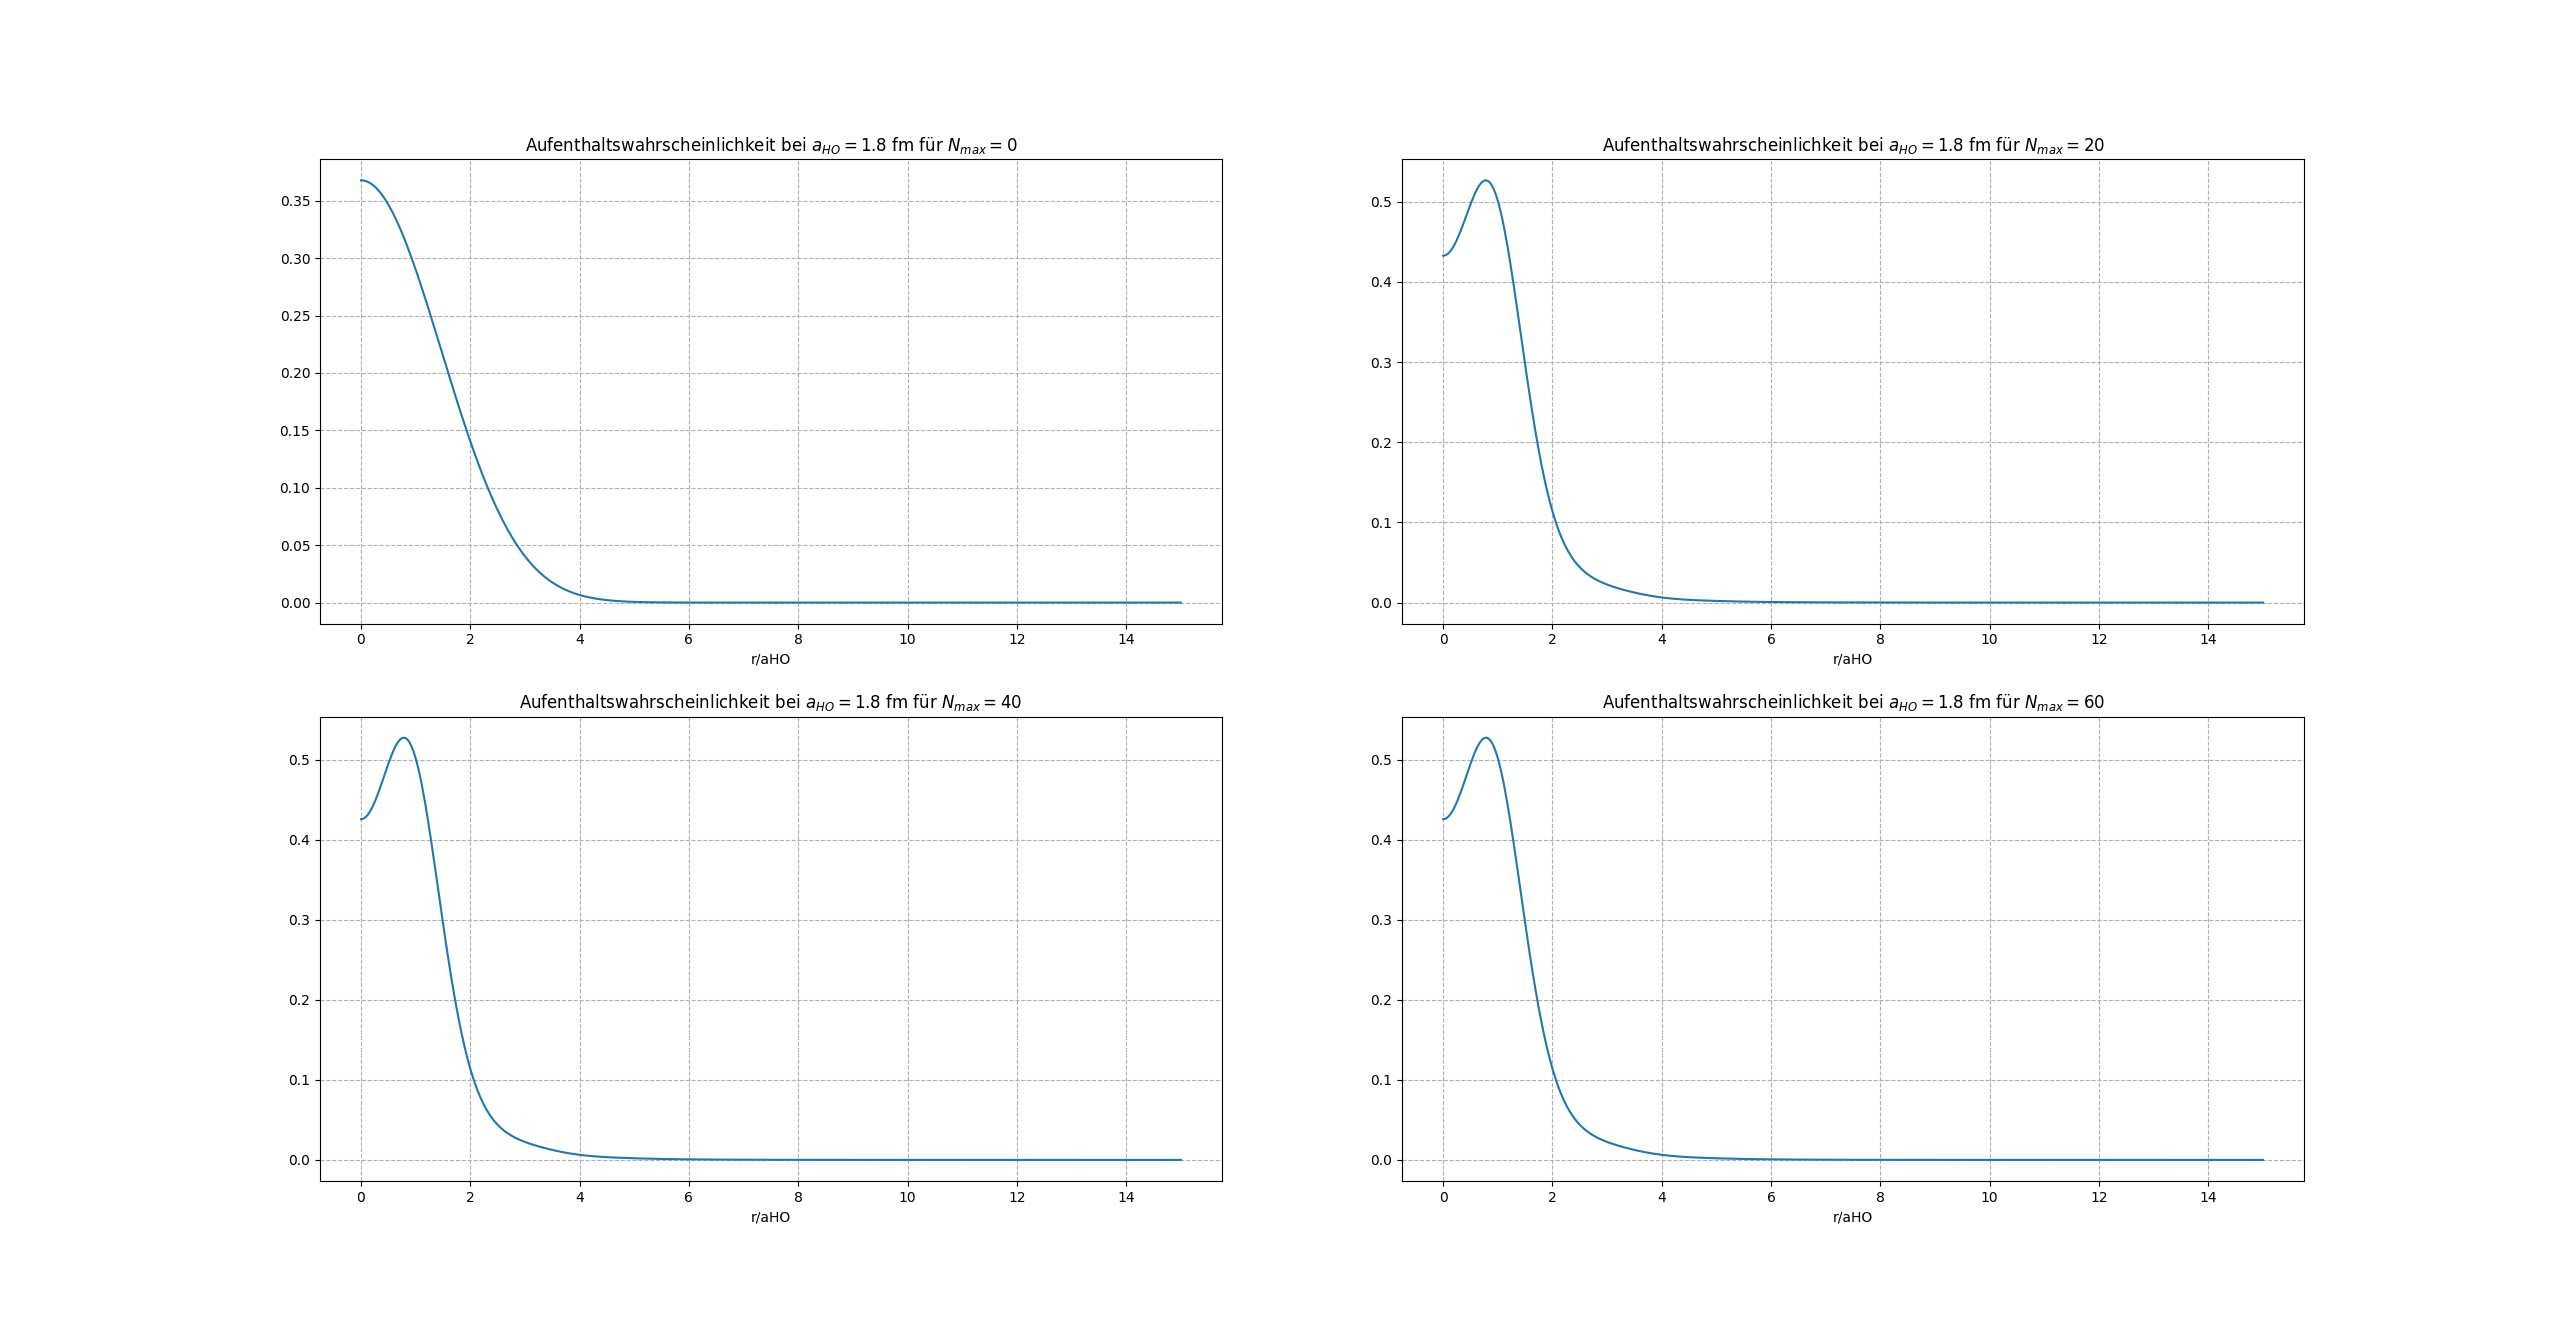
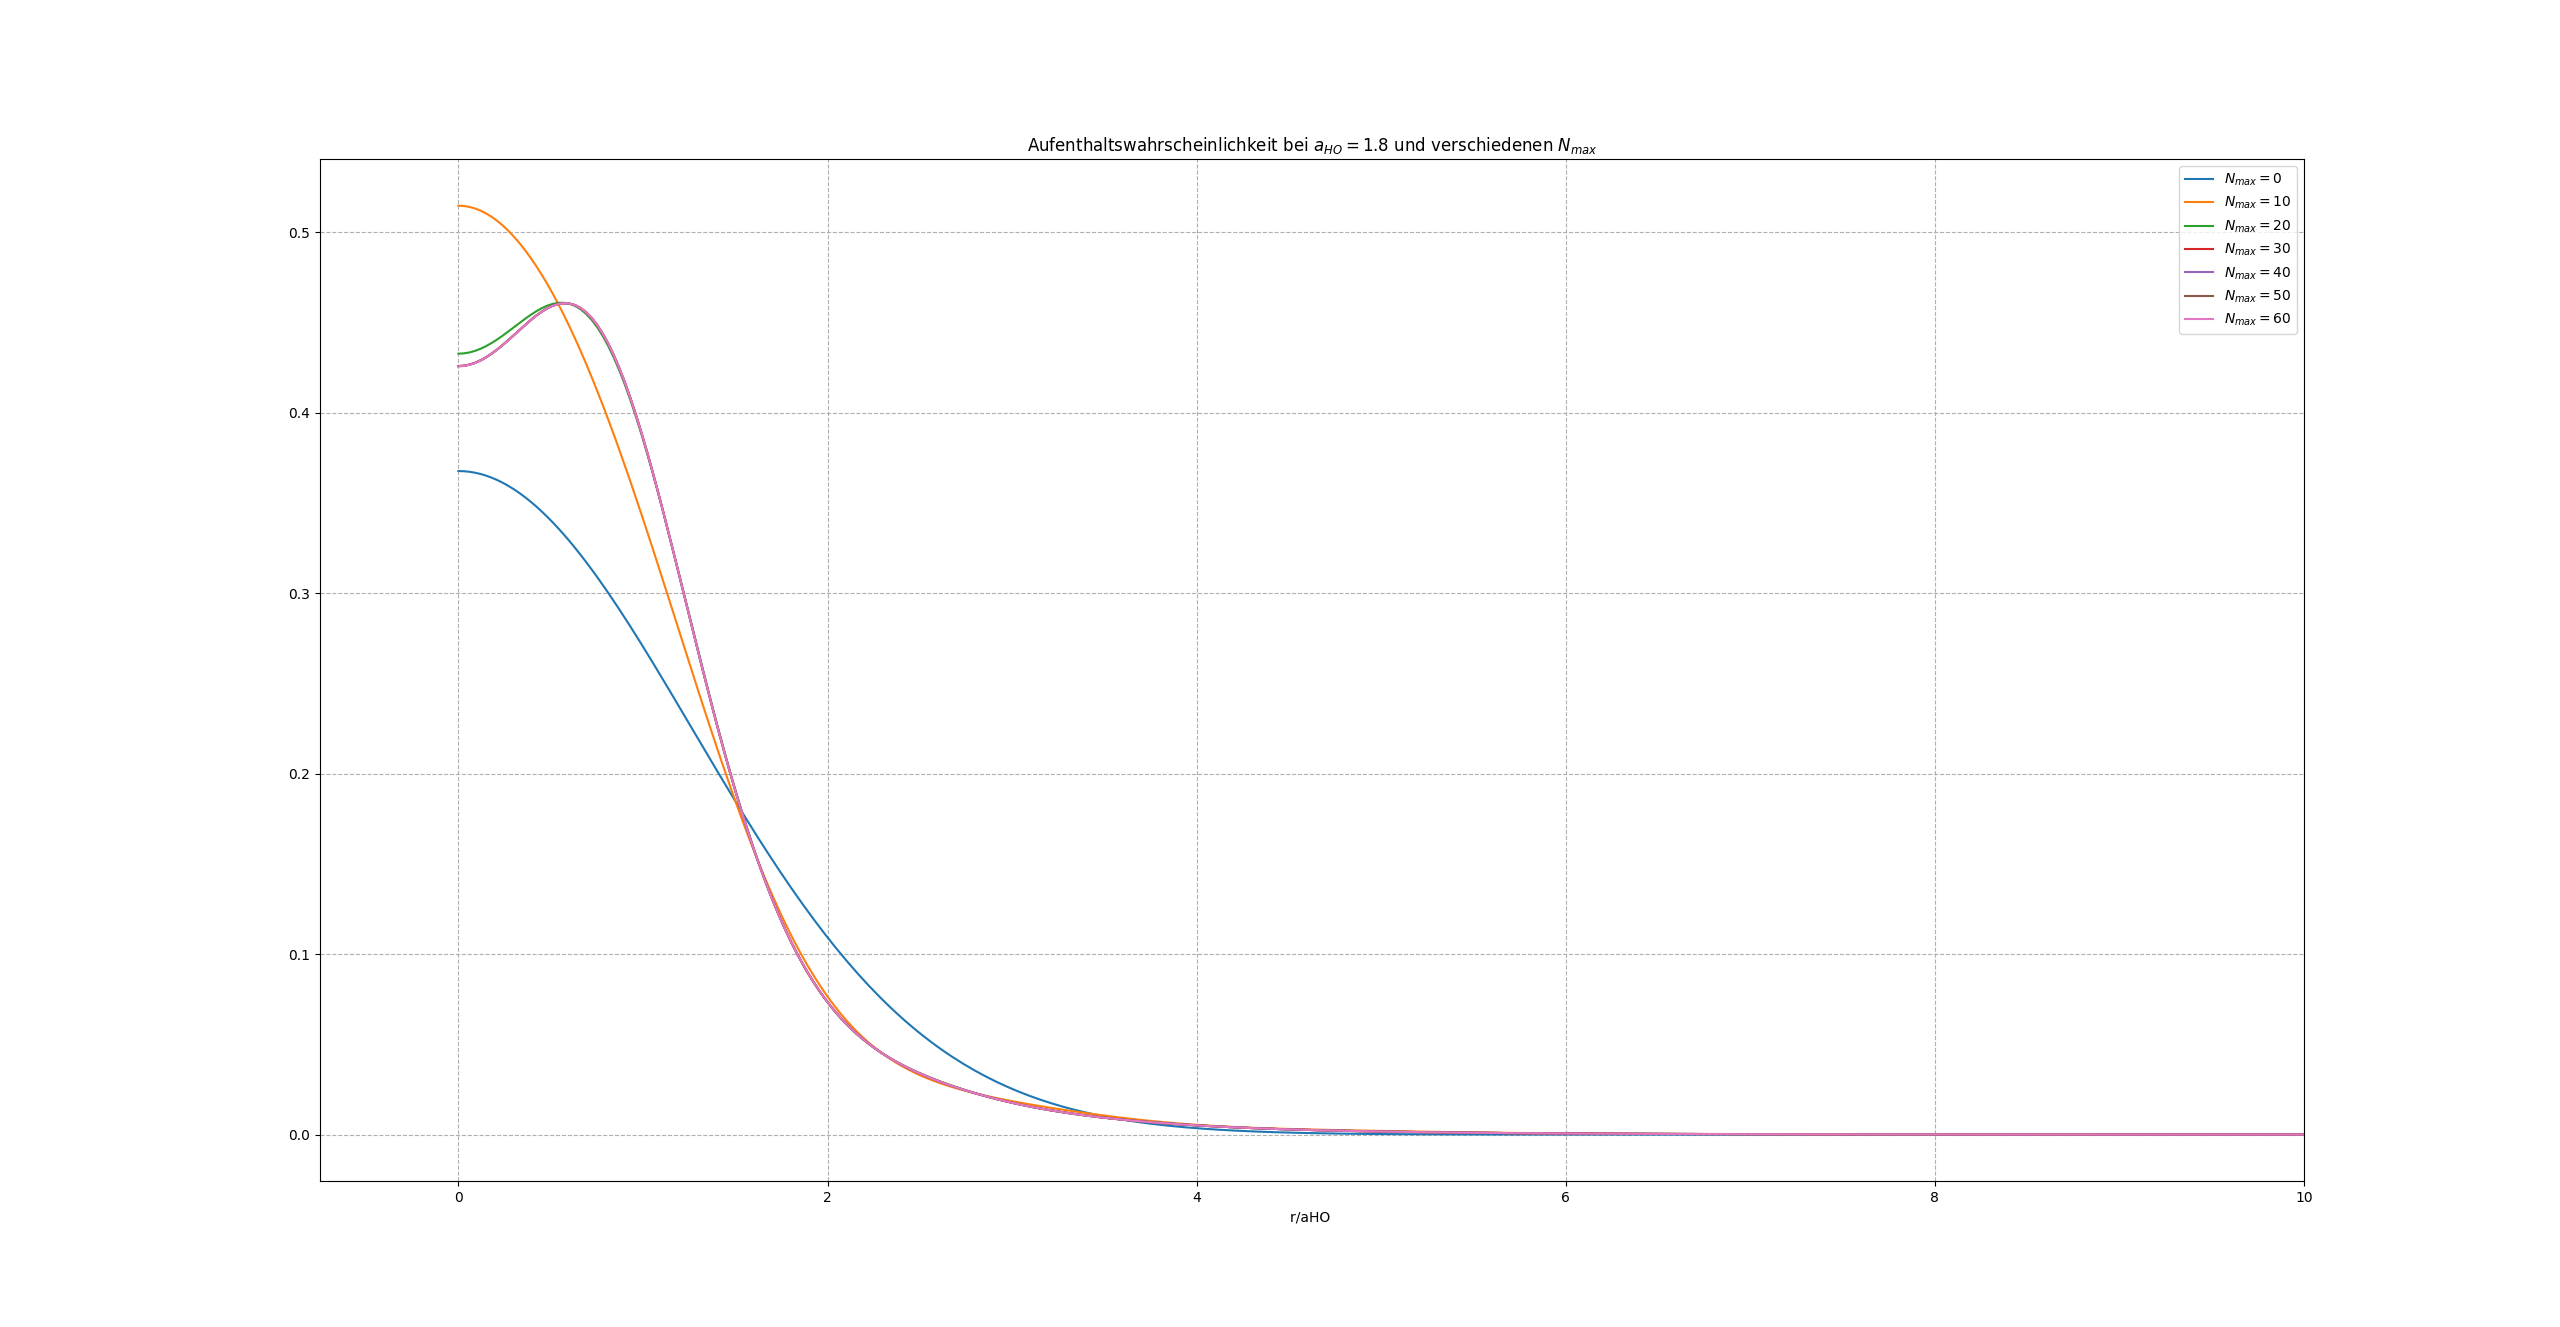
new plots

diff --git a/code/position_space_wavefunc.py b/code/position_space_wavefunc.py
@@ -26,163 +26,69 @@ def plot_wavefunc_Nmax(Nmax, aHO):
     plt.xlabel('r/aHO')
     plt.grid(linestyle='--')
 
-def plots_wavefunc_aHO(aHO):
+def plots_wavefunc_aHO(aHO, NmaxMax, step):
     x_model = np.linspace(0, 15, 500)
     
     plt.figure()
     
-    # Nmax = 0
-    wavefuncs_Nmax0 = deuteron_wavefunc(0, aHO, x_model)
-    wavefunc_Nmax0, wavefunc_Nmax0_L0, wavefunc_Nmax0_L2 = wavefuncs_Nmax0[0], wavefuncs_Nmax0[1], wavefuncs_Nmax0[2]
-    
-    plt.subplot(221)
-    plt.plot(x_model, wavefunc_Nmax0)
-    plt.plot(x_model, wavefunc_Nmax0_L0)
-    plt.plot(x_model, wavefunc_Nmax0_L2)
-    plt.title('Wellenfunctionen bei $a_{HO} = $' + str(aHO) +' fm für $N_{max} = 0$')
-    plt.legend(['$\Phi(r)$', '$\Phi_{L=0}(r)$', '$\Phi_{L=2}(r)$'])
-    plt.xlabel('r/aHO')
-    plt.grid(linestyle='--')
-
-    # Nmax = 20
-    wavefuncs_Nmax20 = deuteron_wavefunc(20, aHO, x_model)
-    wavefunc_Nmax20, wavefunc_Nmax20_L0, wavefunc_Nmax20_L2 = wavefuncs_Nmax20[0], wavefuncs_Nmax20[1], wavefuncs_Nmax20[2]
-
-    plt.subplot(222)
-    plt.plot(x_model, wavefunc_Nmax20)
-    plt.plot(x_model, wavefunc_Nmax20_L0)
-    plt.plot(x_model, wavefunc_Nmax20_L2)
-    plt.title('Wellenfunctionen bei $a_{HO} = $' + str(aHO) +' fm für $N_{max} = 20$')
-    plt.legend(['$\Phi(r)$', '$\Phi_{L=0}(r)$', '$\Phi_{L=2}(r)$'])
-    plt.xlabel('r/aHO')
+    for N in range(0, NmaxMax + 1, step):
+        wavefunc_L0 = np.abs(deuteron_wavefunc(N, aHO, x_model)[1])
+        plt.plot(x_model, wavefunc_L0) 
+    for N in range(0, NmaxMax + 1, step):
+        wavefunc_L2 = np.abs(deuteron_wavefunc(N, aHO, x_model)[2])
+        plt.plot(x_model, wavefunc_L2) 
+    plt.xlim(right=10)
+    plt.title('Wellenfunktionen bei $a_{HO} =$' + str(aHO) + ' und verschiedenen $N_{max}$')
+    plt.xlabel('r/aHO ')
+    plt.legend(np.array([['$\Phi_{L=0}(r)$, $N_{max} = $' + str(N) for N in range(0, NmaxMax + 1, step)], ['$\Phi_{L=2}(r)$, $N_{max} = $' + str(N) for N in range(0, NmaxMax + 1, step)]]).flatten())
     plt.grid(linestyle='--')
     
-    # Nmax = 40
-    wavefuncs_Nmax40 = deuteron_wavefunc(40, aHO, x_model)
-    wavefunc_Nmax40, wavefunc_Nmax40_L0, wavefunc_Nmax40_L2 = wavefuncs_Nmax40[0], wavefuncs_Nmax40[1], wavefuncs_Nmax40[2]
-    
-    plt.subplot(223)
-    plt.plot(x_model, wavefunc_Nmax40)
-    plt.plot(x_model, wavefunc_Nmax40_L0)
-    plt.plot(x_model, wavefunc_Nmax40_L2)
-    plt.title('Wellenfunctionen bei $a_{HO} = $' + str(aHO) +' fm für $N_{max} = 40$')
-    plt.legend(['$\Phi(r)$', '$\Phi_{L=0}(r)$', '$\Phi_{L=2}(r)$'])
-    plt.xlabel('r/aHO')
-    plt.grid(linestyle='--')
-    
-    # Nmax = 60
-    wavefuncs_Nmax60 = deuteron_wavefunc(60, aHO, x_model)
-    wavefunc_Nmax60, wavefunc_Nmax60_L0, wavefunc_Nmax60_L2 = wavefuncs_Nmax60[0], wavefuncs_Nmax60[1], wavefuncs_Nmax60[2]
-    
-    plt.subplot(224)
-    plt.plot(x_model, wavefunc_Nmax60)
-    plt.plot(x_model, wavefunc_Nmax60_L0)
-    plt.plot(x_model, wavefunc_Nmax60_L2)
-    plt.title('Wellenfunctionen bei $a_{HO} = $' + str(aHO) +' fm für $N_{max} = 60$')
-    plt.legend(['$\Phi(r)$', '$\Phi_{L=0}(r)$', '$\Phi_{L=2}(r)$'])
-    plt.xlabel('r/aHO')
-    plt.grid(linestyle='--')
-    
-def plots_density_aHO(aHO):
+def plots_density_aHO(aHO, NmaxMax, step):
     x_model = np.linspace(0, 15, 500)
     
     plt.figure()
     
-    # Nmax = 0
-    density_Nmax0= deuteron_wavefunc(0, aHO, x_model)[3]
-    
-    plt.subplot(221)
-    plt.plot(x_model, density_Nmax0)
-    plt.title('Aufenthaltswahrscheinlichkeit bei $a_{HO} = $' + str(aHO) +' fm für $N_{max} = 0$')
-    plt.xlabel('r/aHO')
+    for N in range(0, NmaxMax + 1, step):
+        plt.plot(x_model, deuteron_wavefunc(N, aHO, x_model)[3])
+    plt.xlim(right=10)
+    plt.title('Aufenthaltswahrscheinlichkeit bei $a_{HO} =$' + str(aHO) + ' und verschiedenen $N_{max}$')
+    plt.xlabel('r/aHO ')
+    plt.legend(['$N_{max} = $' + str(N) for N in range(0, NmaxMax + 1, step)])
     plt.grid(linestyle='--')
 
-    # Nmax = 20
-    density_Nmax20 = deuteron_wavefunc(20, aHO, x_model)[3]
-    
-    plt.subplot(222)
-    plt.plot(x_model, density_Nmax20)
-    plt.title('Aufenthaltswahrscheinlichkeit bei $a_{HO} = $' + str(aHO) +' fm für $N_{max} = 20$')
-    plt.xlabel('r/aHO')
-    plt.grid(linestyle='--')
-    
-    # Nmax = 40
-    density_Nmax40 = deuteron_wavefunc(40, aHO, x_model)[3]
-    
-    plt.subplot(223)
-    plt.plot(x_model, density_Nmax40)
-    plt.title('Aufenthaltswahrscheinlichkeit bei $a_{HO} = $' + str(aHO) +' fm für $N_{max} = 40$')
-    plt.xlabel('r/aHO')
-    plt.grid(linestyle='--')
-    
-    # Nmax = 60
-    density_Nmax60 = deuteron_wavefunc(60, aHO, x_model)[3]
-    
-    plt.subplot(224)
-    plt.plot(x_model, density_Nmax60)
-    plt.title('Aufenthaltswahrscheinlichkeit bei $a_{HO} = $' + str(aHO) +' fm für $N_{max} = 60$')
-    plt.xlabel('r/aHO')
-    plt.grid(linestyle='--')
-
-def logplots_density_aHO(aHO):
-    x_model_log = np.linspace(0, 30, 500)
+def logplots_density_aHO(aHO, NmaxMax, step):
+    x_model_log = np.linspace(0, 15, 500)
     
     plt.figure()
     
-    # Nmax = 0
-    density_Nmax0_log = deuteron_wavefunc(0, aHO, x_model_log)[3]
-    
-    plt.subplot(221)
-    plt.semilogy(x_model_log, density_Nmax0_log)
-    plt.title('Aufenthaltswahrscheinlichkeit bei $a_{HO} = $' + str(aHO) +'  für $N_{max} = 0$ mit logarithmischer x-Achse')
+    for N in range(0, NmaxMax + 1, step):
+        plt.semilogy(x_model_log, deuteron_wavefunc(N, aHO, x_model_log)[3])
+    plt.ylim(bottom=10**(-6))
+    plt.title('Aufenthaltswahrscheinlichkeit bei $a_{HO} =$' + str(aHO) + ' und verschiedenen $N_{max}$ mit logarithmischer x-Achse')
     plt.xlabel('r/aHO ')
+    plt.legend(['$N_{max} = $' + str(N) for N in range(0, NmaxMax + 1, step)])
     plt.grid(linestyle='--')
 
-    # Nmax = 20
-    density_Nmax20_log = deuteron_wavefunc(20, aHO, x_model_log)[3]
     
-    plt.subplot(222)
-    plt.semilogy(x_model_log, density_Nmax20_log)
-    plt.title('Aufenthaltswahrscheinlichkeit bei $a_{HO} = $' + str(aHO) +'  für $N_{max} = 20$ mit logarithmischer x-Achse')
-    plt.xlabel('r/aHO ')
-    plt.grid(linestyle='--')
-    
-    # Nmax = 40
-    density_Nmax40_log = deuteron_wavefunc(40, aHO, x_model_log)[3]
-    
-    plt.subplot(223)
-    plt.semilogy(x_model_log, density_Nmax40_log)
-    plt.title('Aufenthaltswahrscheinlichkeit bei $a_{HO} = $' + str(aHO) +'  für $N_{max} = 40$ mit logarithmischer x-Achse')
-    plt.xlabel('r/aHO ')
-    plt.grid(linestyle='--')
-    
-    # Nmax = 60
-    density_Nmax60_log = deuteron_wavefunc(60, aHO, x_model_log)[3]
-    
-    plt.subplot(224)
-    plt.semilogy(x_model_log, density_Nmax60_log)
-    plt.title('Aufenthaltswahrscheinlichkeit bei $a_{HO} = $' + str(aHO) +'  für $N_{max} = 60$ mit logarithmischer x-Achse')
-    plt.xlabel('r/aHO ')
-    plt.grid(linestyle='--')
     
 
 
-# plots_wavefunc_aHO(1.2)
-# plots_wavefunc_aHO(1.4)
-# plots_wavefunc_aHO(1.6)
-# plots_wavefunc_aHO(1.8)
-# plots_wavefunc_aHO(2.0)
+plots_wavefunc_aHO(1.2, 60, 10)
+plots_wavefunc_aHO(1.4, 60, 10)
+plots_wavefunc_aHO(1.6, 60, 10)
+plots_wavefunc_aHO(1.8, 60, 10)
+plots_wavefunc_aHO(2.0, 60, 10)
 
-plots_density_aHO(1.2)
-plots_density_aHO(1.4)
-plots_density_aHO(1.6)
-plots_density_aHO(1.8)
-plots_density_aHO(2.0)
+# plots_density_aHO(1.2, 60, 10)
+# plots_density_aHO(1.4, 60, 10)
+# plots_density_aHO(1.6, 60, 10)
+# plots_density_aHO(1.8, 60, 10)
+# plots_density_aHO(2.0, 60, 10)
 
-logplots_density_aHO(1.2)
-logplots_density_aHO(1.4)
-logplots_density_aHO(1.6)
-logplots_density_aHO(1.8)
-logplots_density_aHO(2.0)
+# logplots_density_aHO(1.2, 60, 10)
+# logplots_density_aHO(1.4, 60, 10)
+# logplots_density_aHO(1.6, 60, 10)
+# logplots_density_aHO(1.8, 60, 10)
+# logplots_density_aHO(2.0, 60, 10)
 
 plt.show()
